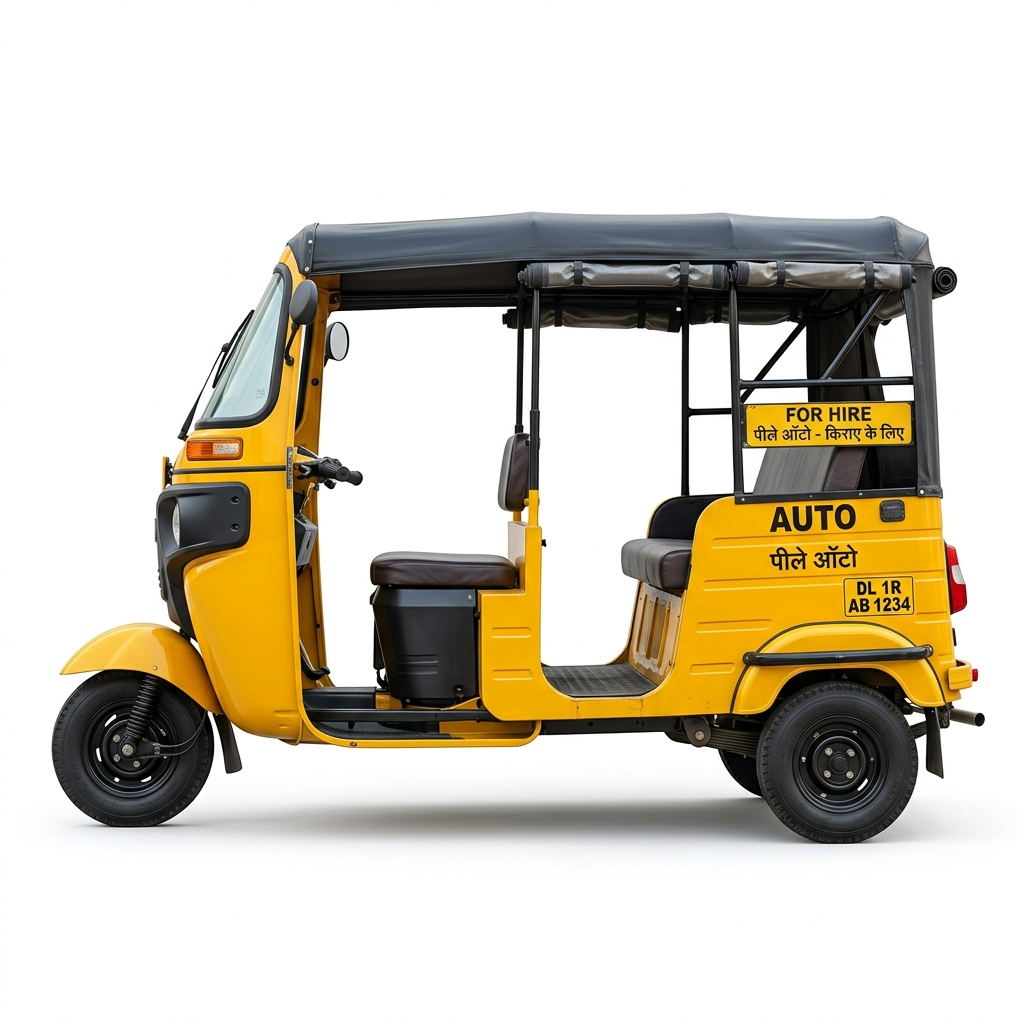
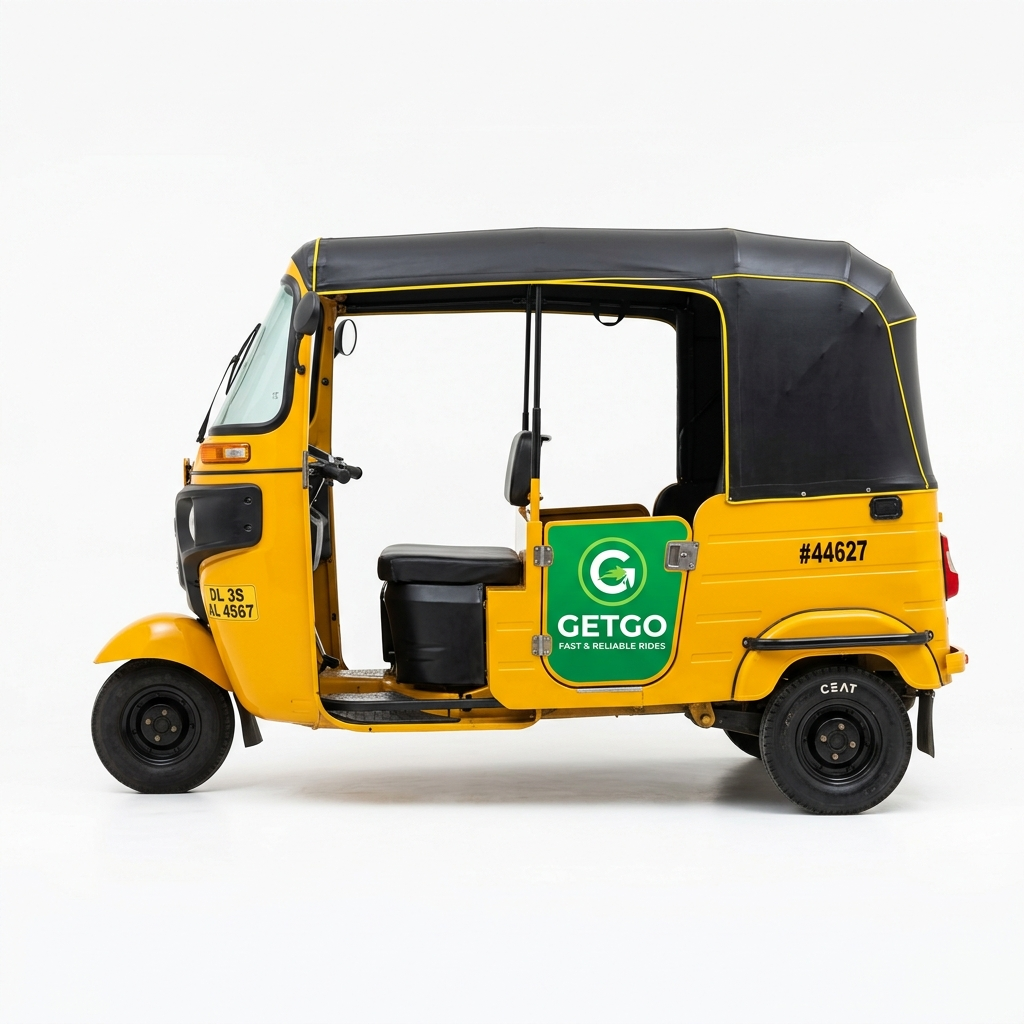
Design: Add real studio vehicle photos with GetGo sticker brand overlays to Bike, Auto, Sedan Car, and XL Van across booking and trip history

Changed region(s): [[0.0312, 0.1875, 0.9688, 0.8438]]

diff --git a/src/pages/RideBookingPage.jsx b/src/pages/RideBookingPage.jsx
@@ -5,7 +5,13 @@ import L from 'leaflet';
 import 'leaflet/dist/leaflet.css';
 import { Zap, Car, Truck, MapPin, ArrowLeft, ShieldCheck, Check, Clock, CreditCard, ChevronRight, User, Phone, Star, AlertCircle } from 'lucide-react';
 import { MOCK_DRIVERS, VEHICLE_CATEGORIES, SAVED_ADDRESSES, PAYMENT_METHODS, CHENNAI_LOCATIONS } from '../data/mockData';
+import bikeImg from '../assets/bike.png';
+import autoImg from '../assets/auto.png';
+import carImg from '../assets/car.png';
+import vanImg from '../assets/van.png';
 import GetGoLogo from '../components/GetGoLogo';
+
+const VEHICLE_IMAGES = { bike: bikeImg, auto: autoImg, car: carImg, van: vanImg };
 
 // Fix Leaflet default marker icons
 delete L.Icon.Default.prototype._getIconUrl;
@@ -234,35 +240,56 @@ export default function RideBookingPage() {
 
           <h2 className="text-section" style={{ color: 'var(--text-primary)' }}>Select Ride Option</h2>
 
-          <div style={{ display: 'grid', gridTemplateColumns: 'repeat(auto-fit, minmax(240px, 1fr))', gap: 12 }}>
+          <div style={{ display: 'grid', gridTemplateColumns: 'repeat(auto-fit, minmax(260px, 1fr))', gap: 12 }}>
             {[
-              { id: 'bike', label: 'GetGo Bike', desc: 'Fast single passenger', icon: Zap, rate: '₹10/km' },
-              { id: 'auto', label: 'GetGo Auto', desc: '3 seats · Eco friendly', icon: Car, rate: '₹14/km' },
-              { id: 'car', label: 'GetGo Comfort Car', desc: '4 seats · A/C sedan', icon: Car, rate: '₹18/km' },
-              { id: 'van', label: 'GetGo XL Van', desc: '6 seats · Extra luggage', icon: Truck, rate: '₹24/km' },
+              { id: 'bike', label: 'GetGo Bike', desc: 'Fast single passenger', rate: '₹10/km' },
+              { id: 'auto', label: 'GetGo Auto', desc: '3 seats · Eco friendly', rate: '₹14/km' },
+              { id: 'car', label: 'GetGo Sedan Car', desc: '4 seats · A/C sedan', rate: '₹18/km' },
+              { id: 'van', label: 'GetGo XL Van', desc: '6 seats · Extra luggage', rate: '₹24/km' },
             ].map(v => {
-              const Icon = v.icon;
               const isSel = selectedVehicle === v.id;
               return (
                 <div
                   key={v.id}
                   className={isSel ? 'flat-card-selected' : 'flat-card-interactive'}
                   onClick={() => setSelectedVehicle(v.id)}
-                  style={{ display: 'flex', alignItems: 'center', gap: 16, padding: 16 }}
+                  style={{ display: 'flex', alignItems: 'center', gap: 16, padding: 14 }}
                 >
+                  {/* Real Vehicle Photo with GetGo Sticker Overlay */}
                   <div style={{
-                    width: 44, height: 44, borderRadius: 'var(--radius-md)',
-                    backgroundColor: isSel ? 'var(--brand-green)' : 'var(--bg-secondary)',
-                    color: isSel ? '#FFFFFF' : 'var(--brand-green-text)',
-                    display: 'flex', alignItems: 'center', justifyContent: 'center', flexShrink: 0
+                    width: 70, height: 50, borderRadius: 'var(--radius-md)',
+                    backgroundColor: '#FFFFFF',
+                    border: '1px solid var(--border)',
+                    padding: 4,
+                    display: 'flex', alignItems: 'center', justifyContent: 'center', flexShrink: 0,
+                    position: 'relative',
+                    overflow: 'hidden'
                   }}>
-                    <Icon size={22} />
+                    <img src={VEHICLE_IMAGES[v.id]} alt={v.label} style={{ width: '100%', height: '100%', objectFit: 'contain' }} />
+                    <div style={{
+                      position: 'absolute',
+                      bottom: 2,
+                      right: 2,
+                      backgroundColor: '#1B5E20',
+                      color: '#FFFFFF',
+                      fontSize: 8,
+                      fontWeight: 800,
+                      padding: '1px 4px',
+                      borderRadius: 4,
+                      letterSpacing: '0.05em'
+                    }}>
+                      GetGo
+                    </div>
                   </div>
-                  <div style={{ flex: 1 }}>
-                    <div className="text-body-medium" style={{ color: 'var(--text-primary)' }}>{v.label}</div>
-                    <div className="text-caption" style={{ color: 'var(--text-secondary)' }}>{v.desc}</div>
+
+                  <div style={{ flex: 1, minWidth: 0 }}>
+                    <div className="text-body-medium" style={{ color: 'var(--text-primary)', display: 'flex', alignItems: 'center', gap: 6 }}>
+                      {v.label}
+                    </div>
+                    <div className="text-caption" style={{ color: 'var(--text-secondary)', marginTop: 2 }}>{v.desc}</div>
                   </div>
-                  <div style={{ fontWeight: 700, color: 'var(--brand-green-text)', fontSize: 15 }}>{v.rate}</div>
+
+                  <div style={{ fontWeight: 700, color: 'var(--brand-green-text)', fontSize: 15, flexShrink: 0 }}>{v.rate}</div>
                 </div>
               );
             })}

diff --git a/src/pages/TripHistoryPage.jsx b/src/pages/TripHistoryPage.jsx
@@ -1,7 +1,12 @@
 import React, { useState } from 'react';
 import { Car, Package, Compass, Calendar, MapPin, Check, Star, X } from 'lucide-react';
 import { MOCK_TRIPS } from '../data/mockData';
+import bikeImg from '../assets/bike.png';
+import autoImg from '../assets/auto.png';
+import carImg from '../assets/car.png';
+import vanImg from '../assets/van.png';
 
+const VEHICLE_IMAGES = { bike: bikeImg, auto: autoImg, car: carImg, van: vanImg };
 const FILTERS = ['All', 'Rides', 'Parcels', 'Travel'];
 
 export default function TripHistoryPage() {
@@ -80,18 +85,36 @@ export default function TripHistoryPage() {
                 onClick={() => setSelected(trip)}
                 style={{ display: 'flex', alignItems: 'center', gap: 16 }}
               >
+                {/* Vehicle Photo Container with GetGo Sticker Overlay */}
                 <div style={{
-                  width: 44,
+                  width: 60,
                   height: 44,
                   borderRadius: 'var(--radius-md)',
-                  backgroundColor: 'var(--brand-green-tint)',
-                  color: 'var(--brand-green-text)',
+                  backgroundColor: '#FFFFFF',
+                  border: '1px solid var(--border)',
+                  padding: 3,
                   display: 'flex',
                   alignItems: 'center',
                   justifyContent: 'center',
                   flexShrink: 0,
+                  position: 'relative',
+                  overflow: 'hidden'
                 }}>
-                  <Icon size={22} />
+                  <img src={VEHICLE_IMAGES[trip.vehicle] || carImg} alt={trip.vehicle || trip.type} style={{ width: '100%', height: '100%', objectFit: 'contain' }} />
+                  <div style={{
+                    position: 'absolute',
+                    bottom: 1,
+                    right: 1,
+                    backgroundColor: '#1B5E20',
+                    color: '#FFFFFF',
+                    fontSize: 7,
+                    fontWeight: 800,
+                    padding: '1px 3px',
+                    borderRadius: 3,
+                    letterSpacing: '0.05em'
+                  }}>
+                    GetGo
+                  </div>
                 </div>
 
                 <div style={{ flex: 1, minWidth: 0 }}>
@@ -104,7 +127,7 @@ export default function TripHistoryPage() {
                     </div>
                   </div>
                   <div className="text-caption" style={{ color: 'var(--text-muted)', marginTop: 4 }}>
-                    {date} · {trip.distance} km · {trip.paymentMethod}
+                    GetGo {trip.vehicle ? trip.vehicle.toUpperCase() : 'RIDE'} · {date} · {trip.distance} km
                   </div>
                 </div>
               </div>
